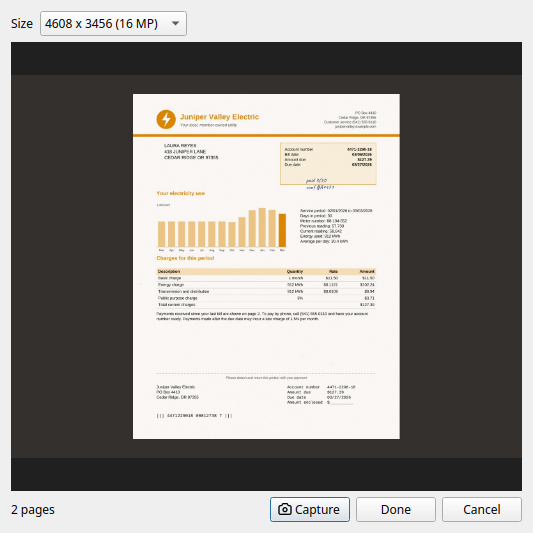
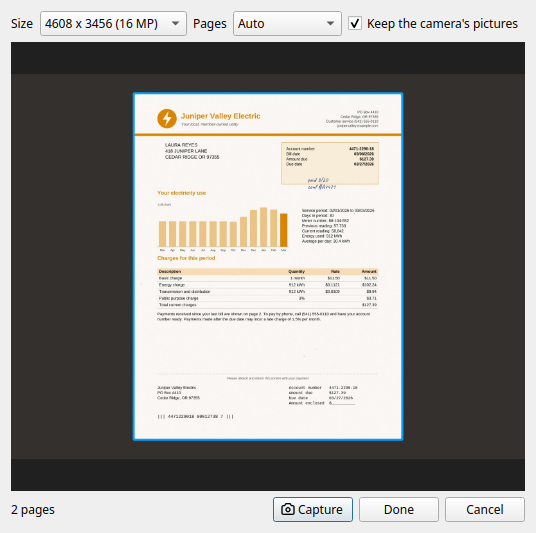
doc: Describe how pages are cut out of a camera's pictures
The user guide says that Paperman keeps the camera's picture as it is
and does not split a book, which is no longer so.

Describe the Pages list and the 'Keep the camera's pictures' box, what
is done to a sheet and to a book, when the whole picture is kept instead
and how the curved pages of a book are made flat, with when they cannot
be. Say that the pages arrive a moment after the picture, that Done
waits for them and that the page is best laid on a dark mat. Add the
settings for the pages' JPEG quality and for the focal length which the
flattening goes by, saying that its default comes from one camera.

Take the picture of the panel again, which now shows the new controls
and the page outlined in the camera's view.

Co-developed-by: Claude Fable 5.2 <noreply@anthropic.com>
Claude-Session: https://claude.ai/code/session_01BxfLL7T8McSpFMMxYekitE

diff --git a/doc/scanning.rst b/doc/scanning.rst
@@ -126,22 +126,25 @@ Scanning with a camera
 
 A document camera, which looks down on a page from a stand, scans what
 will not go through a feeder: a bound book, a fragile letter, something
-too big or too thick. Paperman takes one picture for each page and keeps
-them as one stack, so a book is scanned by turning a page and pressing a
-key, over and over.
+too big or too thick. Paperman takes a picture each time a key is
+pressed and keeps the pages in it as one stack, so a book is scanned by
+turning a page and pressing a key, over and over.
 
 Cameras are reached through the kernel's video interface, on Linux only
 for now. Any UVC camera which sends its pictures as JPEG will do, which
-covers most document cameras and webcams. The page kept is the JPEG the
-camera sent, unchanged, so it is as good as the camera can make it:
-Paperman does not straighten or flatten the page, or split an open book
-into its two pages.
+covers most document cameras and webcams.
+
+Lay the page on a dark mat, so that Paperman can tell where it ends.
+Paperman finds the page in each picture, cuts it out and makes it
+upright, and splits an open book into its two pages. Pages which curve,
+as those of a thick book do, are made flat.
 
 Press |main-camera| in the main toolbar, or **F7**, to open the camera
 panel. The button is greyed out when no camera is plugged in.
 
 .. image:: images/camera-panel.png
-   :alt: The camera panel, with a bill under the camera and two pages taken
+   :alt: The camera panel, with a bill under the camera, outlined where
+         it will be cut out, and two pages taken
 
 Camera
    Which camera to use. This is shown only when there is more than one.
@@ -151,14 +154,61 @@ Size
    take first. A larger size shows finer print, and at the largest a
    camera may take a second or so over each page.
 
+Pages
+   What to keep of each picture.
+
+   **Whole picture** keeps it just as the camera sent it, mat and all.
+
+   **One page** finds the sheet, cuts it out and makes it upright. A
+   sheet which lies crooked, or which the camera sees from one side so
+   that it is narrower at the far end, comes out square.
+
+   **Two pages** does the same for an open book and then cuts it in two
+   down the gutter, the left page going into the stack before the right.
+   If no gutter can be seen it is cut down the middle.
+
+   **Auto**, which the panel starts with, treats what it sees as a book
+   if it is wider than it is tall and has a clear gutter, and as one
+   page if not.
+
+   Where no page can be found, as when the mat is as light as the paper
+   or the page fills the picture, the whole picture is kept.
+
+   The pages of an open book curve up from the gutter. Paperman follows
+   the top and bottom edges of each page across the picture and makes
+   the page flat from them: its lines come out level, and the part which
+   slopes down into the gutter, which the camera sees squeezed, is
+   stretched back to its width. What lies beside the page, such as the
+   flap of a jacket or the edges of the pages beneath, is left out where
+   it can be told from the page. This needs both edges of the page to be
+   seen against the mat for at least part of the way across. A page
+   which runs off the picture at one edge is still made flat, with the
+   part the camera missed left white, but one which runs off it at both
+   is only trimmed and split at the gutter, as is one whose edges
+   Paperman cannot follow. A page which curves only a little is treated
+   as a flat sheet.
+
+Keep the camera's pictures
+   Keep each picture as the camera sent it, as well as the pages cut
+   from it, so that a page which came out badly can be made again. They
+   go in a second stack, named after the first with ``_camera`` added,
+   which appears beside it when Done is pressed. This is not done for a
+   folder on a server, nor when Pages is Whole picture, since the
+   picture is then the page.
+
 Camera's view
    What the camera sees, several times a second, so that the page can be
-   put straight and the light checked before it is taken. It is a small
-   picture: the page taken is much sharper.
+   put straight and the light checked before it is taken. Each page
+   which would be cut out is outlined in blue, along its own edges if it
+   curves and will be made flat. It is a small picture:
+   the page taken is much sharper.
 
 Page count
-   How many pages have been taken into the stack so far. Any problem
-   with the camera is shown beside it.
+   How many pages are in the stack so far. Cutting the pages out of a
+   large picture takes a second or so, which is done in the background:
+   the next picture can be taken at once, and the count goes up as the
+   pages arrive. Beside it is how many pictures are still being worked
+   on, or any problem with the camera.
 
 Capture
    Take a picture and add it to the stack as its next page. The space
@@ -175,10 +225,13 @@ The camera's own button
 
 Done
    Keep the stack and close the panel. Closing the panel with Escape, or
-   with its window's close button, does the same.
+   with its window's close button, does the same. If pictures are still
+   being worked on the panel says how many and closes once their pages
+   are in the stack.
 
 Cancel
-   Throw away the pages taken and close the panel.
+   Throw away the pages taken, and the camera's pictures if they are
+   being kept, and close the panel.
 
 The stack is made in the folder shown in the main window when the first
 page is taken, and its pages appear in the page view as they are taken.
@@ -191,7 +244,16 @@ the page's resolution: each page is recorded as 300 dpi. To record
 another, set ``dpi`` in the ``[camera]`` section of Paperman's settings
 file, ``~/.config/paperman/paperman.conf``. If the first picture a
 camera takes after a pause comes out dark, set ``skip_frames`` there to
-1 or 2, to have Paperman pass over that many before it keeps one.
+1 or 2, to have Paperman pass over that many before it keeps one. The
+pages cut out of a picture are stored as JPEG at a quality of 90, which
+``quality`` there changes.
+
+How far a curved page must be stretched to make it flat depends on how
+far the camera is from it, which shows in the focal length of the
+camera's lens. Paperman takes that to be 0.7 times the width of the
+picture, a figure found by trying it with one camera. If the words near
+the gutter of a book come out wider than the rest, set ``focal`` in the
+same section to a smaller number, and if narrower to a larger one.
 
 Scanning without the window
 ---------------------------
